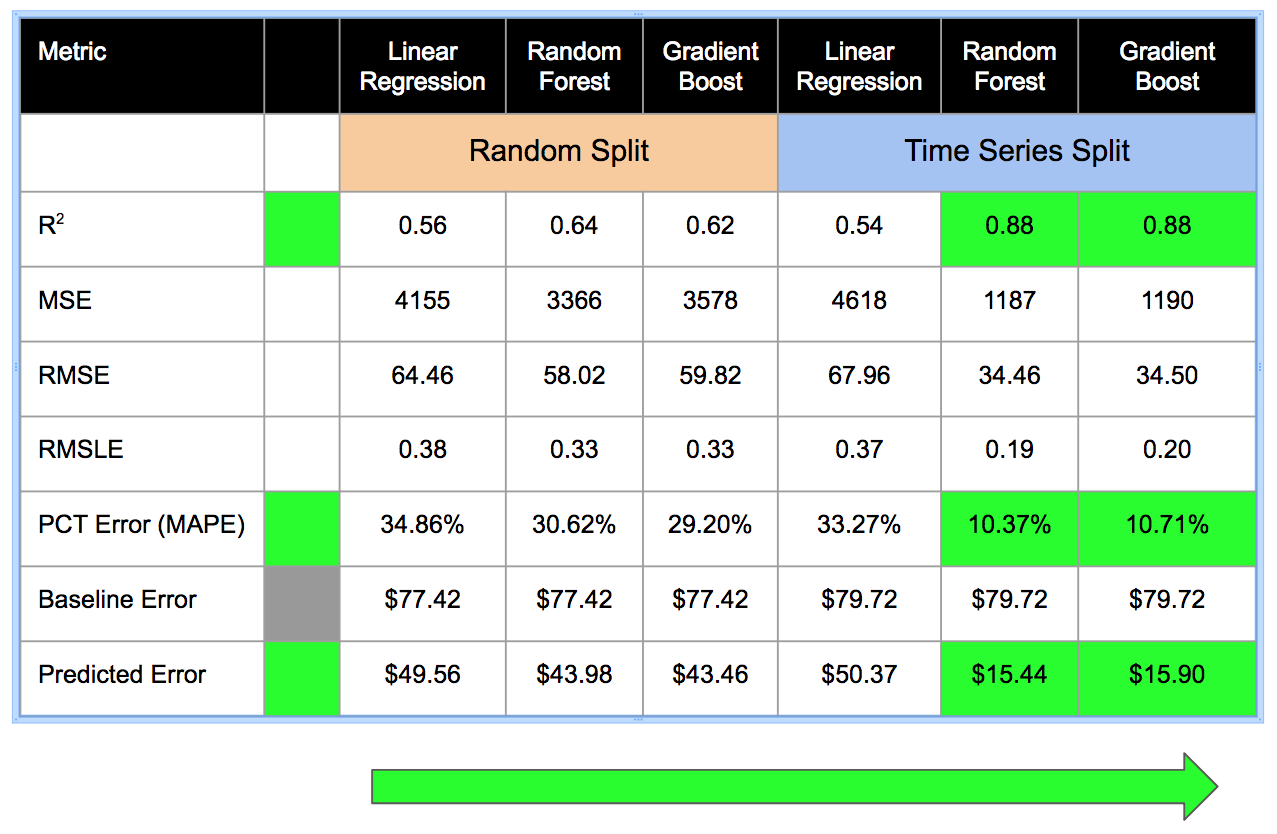
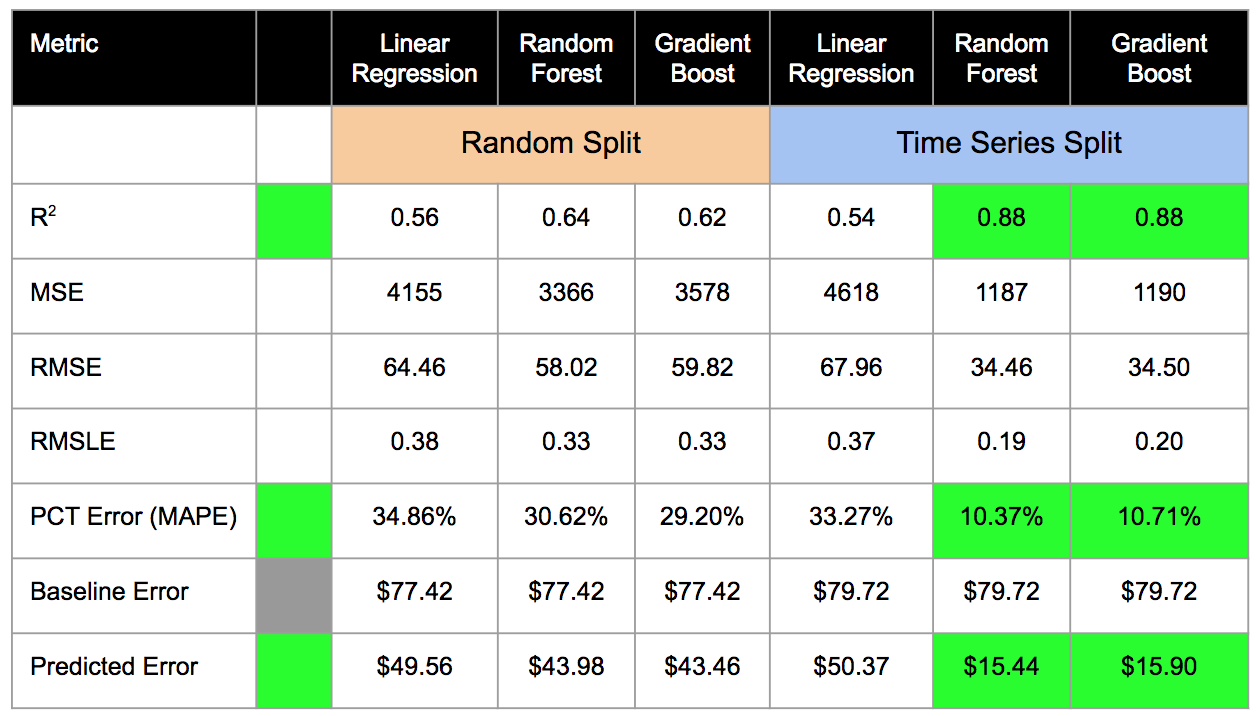
added the images to readme

diff --git a/README.md b/README.md
@@ -12,6 +12,9 @@ The data set used in this project consists of 5k-8k listings each day. Each list
 
 The data was obtained from Insideairbnb.com.  After deep evaluation and cycles of learning,  final dataset was created for common listings excluding luxury listings based on time series. This model uses all the features to make the prediction of daily price.
 
+![ProcessFlow](airbnb_sfo/images/process_flow.png)
+#####  Fig1 : Process Flow
+
 ### Machine Learning Techiniques
   - Lineary Regression
   - Random Forest
@@ -31,6 +34,13 @@ The data was obtained from Insideairbnb.com.  After deep evaluation and cycles o
 ### Results :
 
 The primary dataset was little complicated to analyze since the latent features are plenty based on the 96 primary features.  The initial models did not perform well but gave an inherent signature to help identify the outliers that could be imputed with no signal loss.  The resulting models with some tuning performed impressively resulting in an average prediction error of 10% or $15. 
+
+![ResultTable](airbnb_sfo/images/capstone_result_table.png)
+#####  Fig2 : Table of Results
+
+![Predicted Error](airbnb_sfo/images/capstone_result_chart.png)
+#####  Fig3 : Predicted Error
+
 
 
 ### Tech used:
